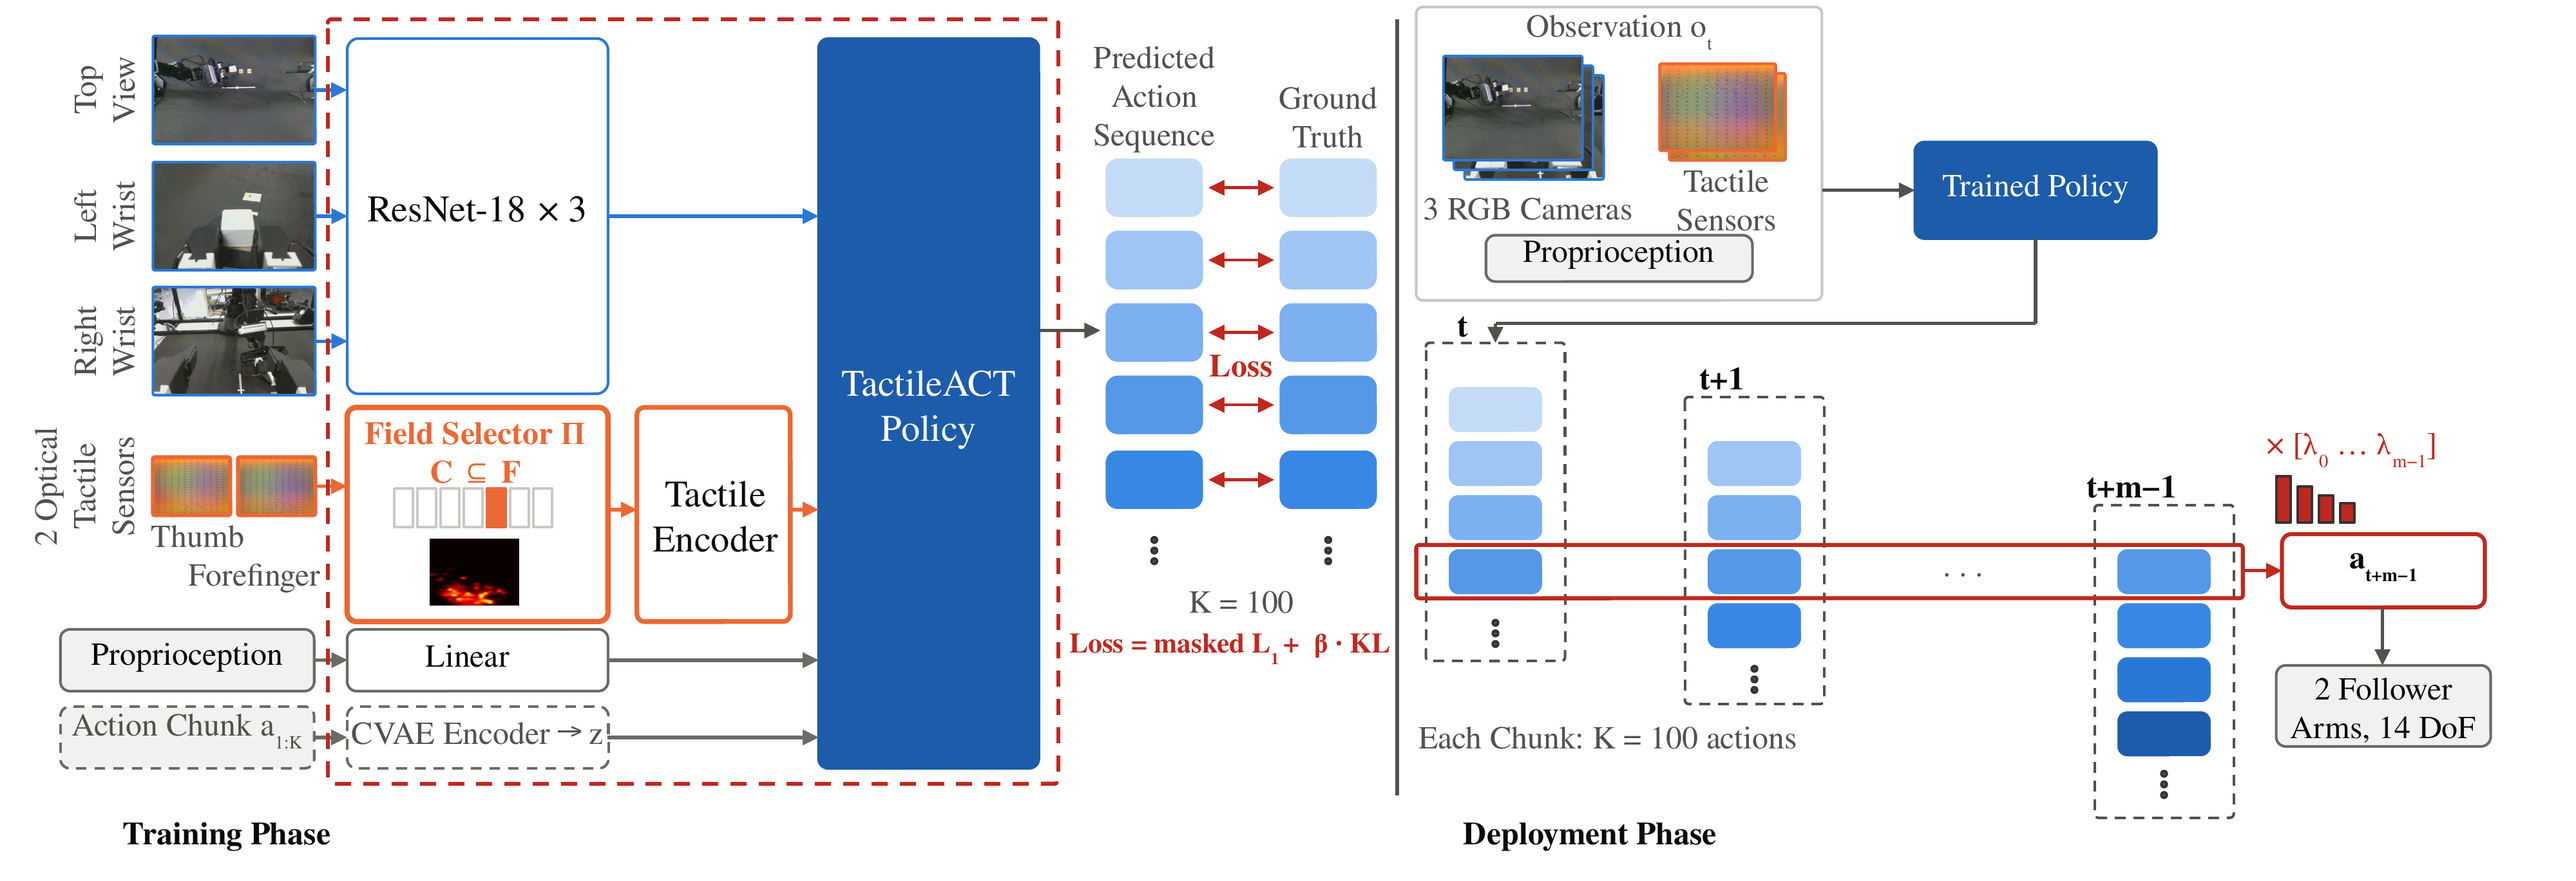
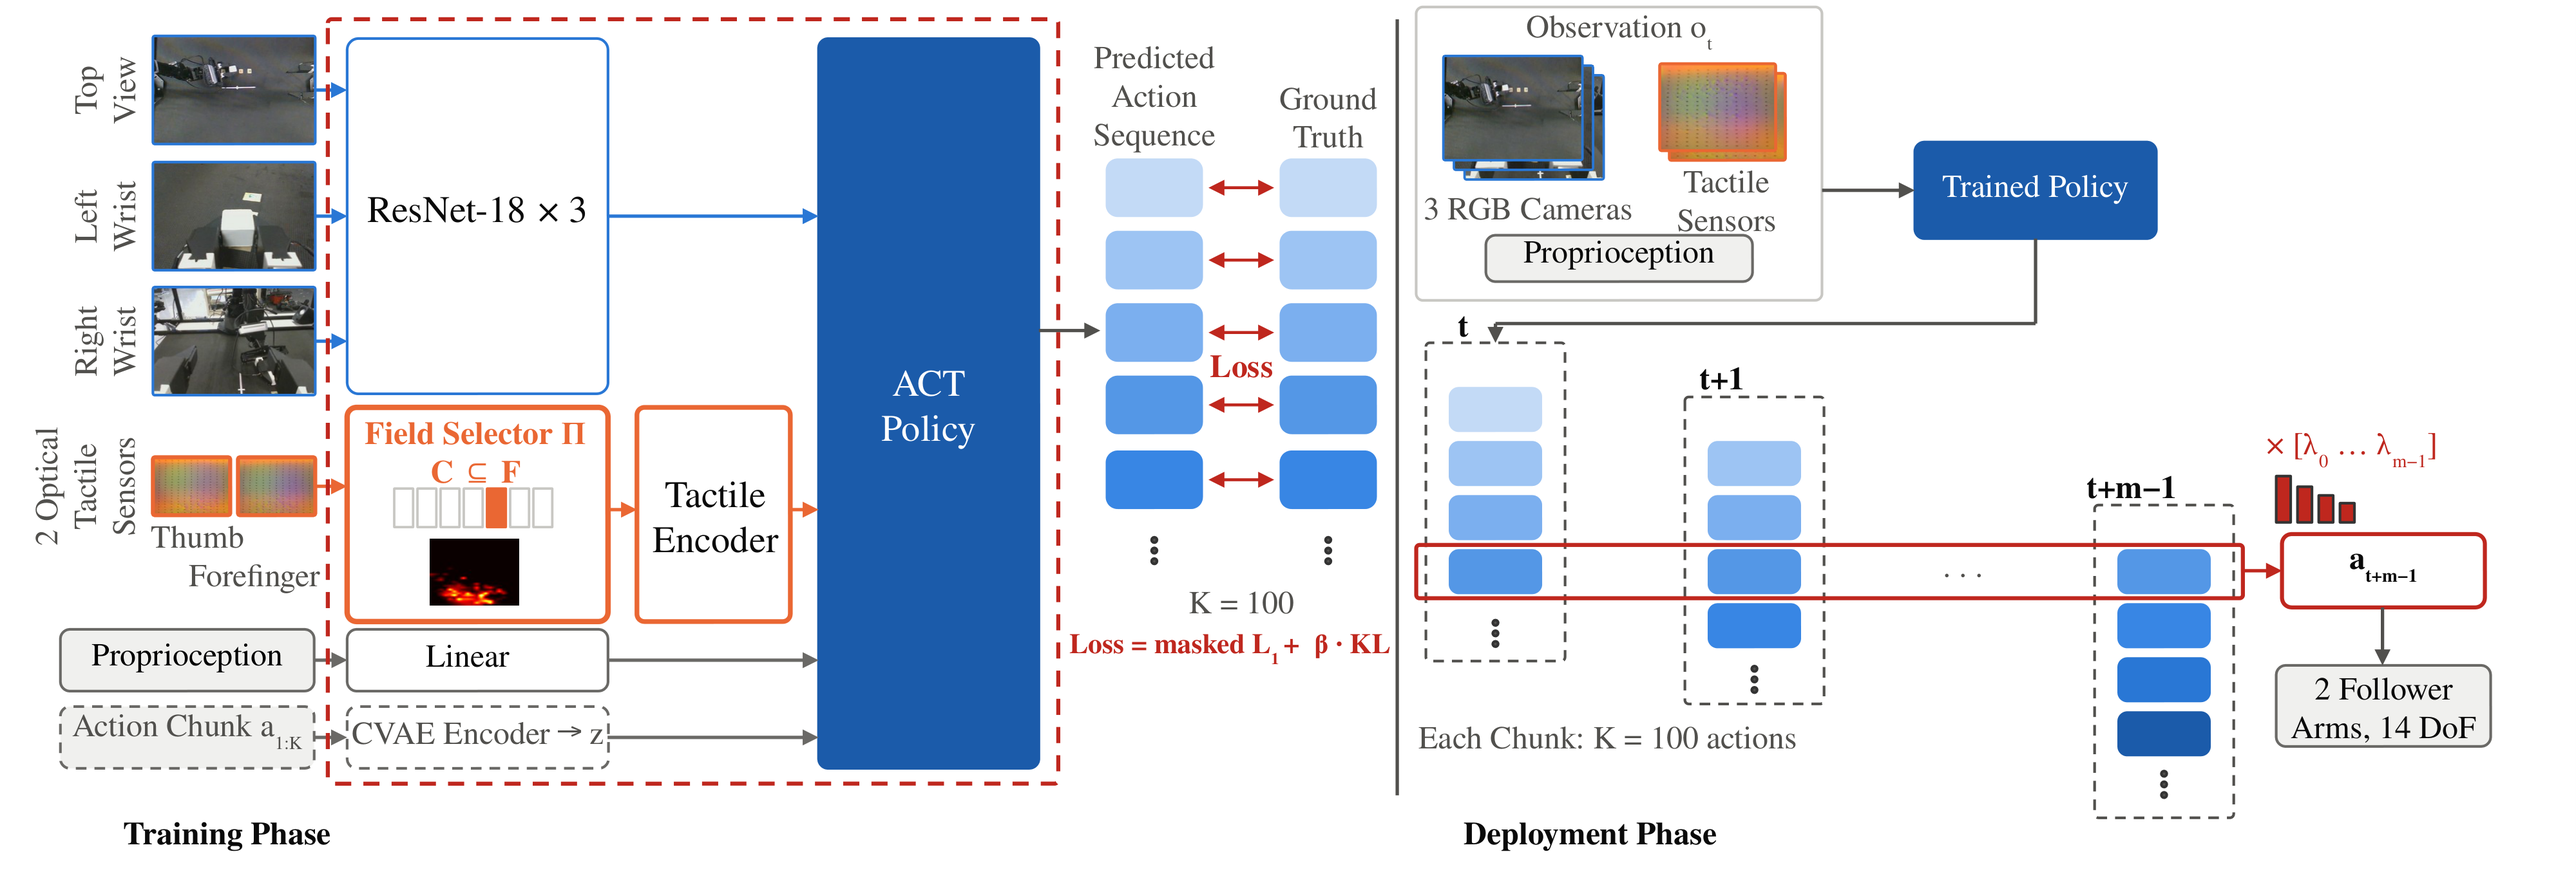
Update project page

diff --git a/index.html b/index.html
@@ -176,7 +176,7 @@ footer a{color:var(--fg-muted)}
 <section id="abstract">
   <div class="wrap">
     <h2>Abstract</h2>
-    <p class="lead">Tactile sensing is vital for contact-rich robotic manipulation, yet how different
+    <p class="lead">Tactile sensing is central to contact-rich robotic manipulation, yet how different
     tactile representations affect visuo-tactile imitation learning remains insufficiently understood.
     We present a controlled study of how tactile field selection governs policy performance. On a
     four-arm ALOHA platform with optical tactile sensors we co-record all seven native fields —
@@ -185,15 +185,15 @@ footer a{color:var(--fg-muted)}
     Transformers (ACT) with a tactile encoder fusing the selected tokens with visual and
     proprioceptive features under a standardised protocol.</p>
     <p class="lead">Eleven configurations are evaluated on two real-robot tasks, hidden-property
-    pick-and-place and pressure-regulated wiping. Field selection dominates, spanning 6.7–100.0% and
-    6.7–86.7% success against 33.3% and 13.3% for the vision-only baselines, and the effective field
-    is task-dependent: indentation depth reaches 80.0% and 100.0% over two seeds on pick-and-place,
-    while tangential marker displacement reaches 86.7% and 80.0% on wiping yet sits at the collapse
-    floor on the other task. Combining fields is not additive: of four physically motivated pairs,
+    pick-and-place and pressure-regulated wiping. Field selection dominates performance — success spans
+    6.7–100.0% and 6.7–86.7% against 33.3% and 13.3% for the vision-only baselines — and the
+    effective field is task-dependent: indentation depth reaches 80.0% and 100.0% over two seeds on pick-and-place,
+    while tangential marker displacement reaches 86.7% and 80.0% on wiping yet does not clear the
+    33.3% floor on the other task. Combining fields is not additive: of four physically motivated pairs,
     three fall below their better constituent (27/60 versus 45/60 pooled, <i>p</i>&nbsp;=&nbsp;0.001),
-    the same pair helping on one task and collapsing on the other, and concatenating all seven fields
+    the same pair helping on one task and failing on the other, and concatenating all seven fields
     degrades success to 26.7% and 40.0%. Selecting task-matched tactile representations is therefore
-    far more effective than maximising tactile input dimensionality.</p>
+    more effective than maximising tactile input dimensionality.</p>
     <figure>
       <img src="assets/img/main_image.jpg" alt="Manipulation with tactile sensing: the two tasks and the force_norm readings at both gripper pads.">
       <figcaption><b>Manipulation with tactile sensing.</b> Each follower gripper carries two optical
@@ -213,7 +213,7 @@ footer a{color:var(--fg-muted)}
     rather than to the data, the task or the sensor.</p>
 
     <figure>
-      <img src="assets/img/overview.png" alt="TactileACT architecture: seven co-recorded fields, a selection C, the tactile encoder and the ACT backbone.">
+      <img src="assets/img/overview.png" alt="Approach overview: seven co-recorded fields, a selection C, the tactile encoder and the ACT backbone.">
       <figcaption><b>Approach overview.</b> A fixed field selection <i>C</i> is drawn from seven
       co-recorded fields, and the inset shows the projected <code>force_norm</code> input, 12
       channels of which 8 are constant. The pad thumbnails are <code>rectify</code> displays, not
@@ -244,7 +244,7 @@ footer a{color:var(--fg-muted)}
   <div class="wrap">
     <h2>Tasks</h2>
     <p class="lead">Both tasks are designed so that the information a vision-only policy is missing
-    is specific and nameable. Each contributes 60 demonstrations recorded at 50&nbsp;Hz.</p>
+    is specific and identifiable. Each contributes 60 demonstrations recorded at 50&nbsp;Hz.</p>
 
     <figure>
       <img src="assets/img/mission_flow.png" alt="Both tasks as a stage sequence, with the policy's overhead view and the tactile field at the same instants.">
@@ -265,7 +265,7 @@ footer a{color:var(--fg-muted)}
 
     <h3>Task 1 — hidden-property pick-and-place</h3>
     <p>Three cubes <i>A</i>, <i>B</i> and <i>C</i> of identical 31.1&nbsp;mm edge length must each be
-    transported to an assigned target. All three are hollow printed shells differing only in hidden
+    transported to an assigned target. All three are hollow 3-D-printed shells differing only in hidden
     properties: <i>A</i> and <i>B</i> carry the same anti-slip tape at 13 and 109&nbsp;g, and <i>C</i>
     is bare PLA at 13&nbsp;g — so (<i>A</i>,&nbsp;<i>B</i>) varies mass at fixed friction and
     (<i>A</i>,&nbsp;<i>C</i>) friction at fixed mass. All three are demonstrated identically; no
@@ -385,8 +385,8 @@ footer a{color:var(--fg-muted)}
 <section id="results">
   <div class="wrap">
     <h2>Results</h2>
-    <p class="lead">All reported results are from the physical robot: twelve policies per task, for
-    24 policies × 15 trials = <b>360 trials</b>. Success is binary and judged from video; differences
+    <p class="lead">All reported results are from the physical robot: twelve policies per task,
+    24 × 15 = <b>360 trials</b> in all. Success is binary and judged from video; differences
     are tested with a two-sided Fisher's exact test.</p>
 
     <div class="tablewrap">
@@ -481,17 +481,18 @@ footer a{color:var(--fg-muted)}
       <div class="card">
         <span class="n">2</span>
         <h3>More tactile information is worse</h3>
-        <p><code>force</code> contains <code>force_norm</code> bit for bit at identical cost, yet
+        <p><code>force</code> contains <code>force_norm</code> exactly at identical cost, yet
         loses <b>33.3 points on each task</b>. Three of four physically motivated pairs fall below
         their better constituent (27/60 vs 45/60, <i>p</i>&nbsp;=&nbsp;0.001), and all seven fields
         concatenated reach only 26.7% and 40.0%.</p>
       </div>
       <div class="card">
         <span class="n">3</span>
-        <h3>Raw tactile images buy nothing</h3>
+        <h3>Raw tactile images: no gain detected</h3>
         <p>The two image fields — what visuo-tactile policies most often consume — pool to 13/60
-        against 7/30 for vision-only (<i>p</i>&nbsp;=&nbsp;1.0), while fields exposing contact
-        geometry or force reach 57/90 (<i>p</i>&nbsp;=&nbsp;5×10<sup>−7</sup>).</p>
+        against 7/30 for vision-only, no improvement detected, though the 95% interval on that
+        difference spans −21 to +15 points. Fields exposing contact geometry or force reach 57/90
+        (<i>p</i>&nbsp;=&nbsp;5×10<sup>−7</sup> against the image fields).</p>
       </div>
       <div class="card">
         <span class="n">4</span>
@@ -505,8 +506,8 @@ footer a{color:var(--fg-muted)}
         <h3>The choice cannot be made offline</h3>
         <p>The cheapest static probe is <b>anti</b>-predictive: the two fields that decode the hidden
         cube <i>best</i> give the two <i>worst</i> policies
-        (<i>ρ</i>&nbsp;=&nbsp;−0.91, <i>p</i>&nbsp;=&nbsp;0.011). Only closed-loop evaluation found
-        the field that worked.</p>
+        (<i>ρ</i>&nbsp;=&nbsp;−0.91, <i>p</i>&nbsp;=&nbsp;0.011). Only closed-loop evaluation identified
+        the effective field.</p>
       </div>
       <div class="card">
         <span class="n">6</span>
